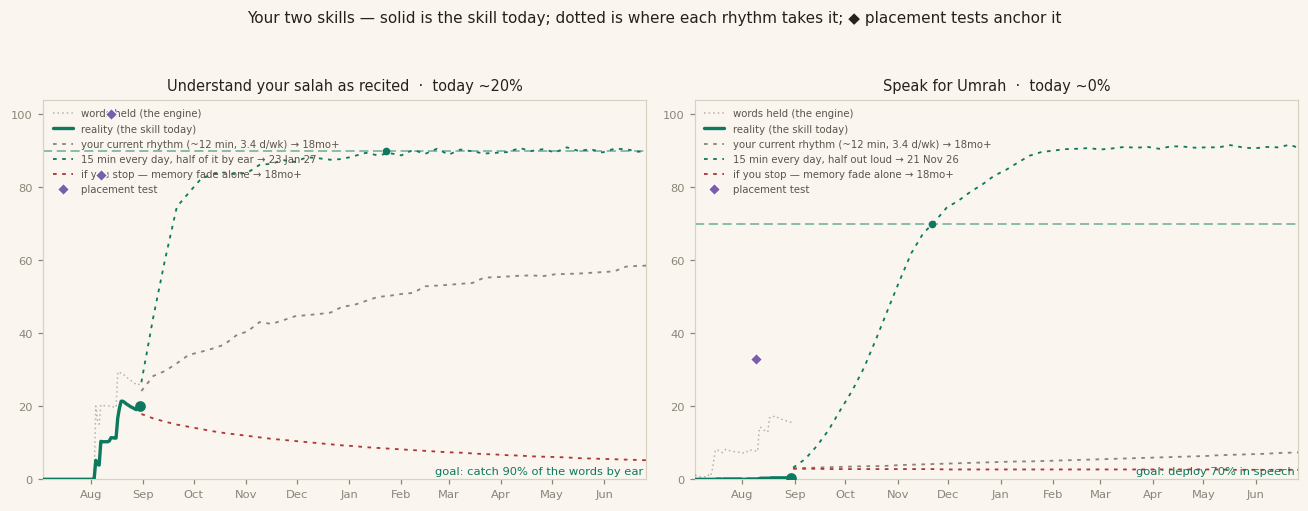
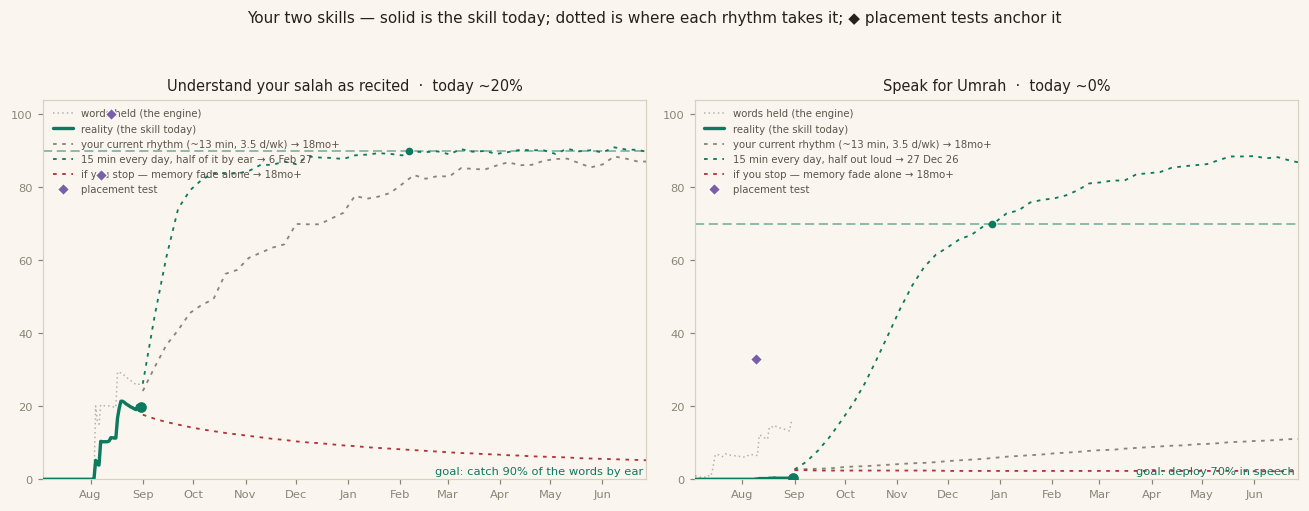
Five memory hooks for the words between him and Quran A1
He is 3 by-ear words from his first level; the missing set clusters in
Al-Fatiha verses 6-7. sirat/mustaqim/maghdub/na'budu now carry hooks
(Pul-Sirat, must-keep-em-straight, the mug taking a dub, every Abdul),
keyed for both Uthmani and plain spellings. Plus tonight's progress regen.

diff --git a/index.html b/index.html
@@ -8,8 +8,8 @@
   <link rel="icon" href="icons/icon-192.png">
   <link rel="apple-touch-icon" href="icons/icon-192.png">
   <title>Arabic — العربية</title>
-  <link rel="stylesheet" href="css/fonts.css?v=mtgd0e6c">
-  <link rel="stylesheet" href="css/style.css?v=mtgd0e6c">
+  <link rel="stylesheet" href="css/fonts.css?v=mtgjw1wu">
+  <link rel="stylesheet" href="css/style.css?v=mtgjw1wu">
   <style>
     .lvls { display: flex; gap: 10px; flex-wrap: wrap; margin-bottom: 14px; }
     .lvl { flex: 1 1 240px; cursor: default; background: var(--card); border: 1px solid var(--border); border-radius: 12px; padding: 10px 13px; text-decoration: none; color: inherit; }
@@ -109,12 +109,12 @@
   </div>
 </main>
 
-<script src="js/progress-model.js?v=mtgd0e6c"></script>
-<script src="js/curriculum.js?v=mtgd0e6c"></script>
-<script src="js/app.js?v=mtgd0e6c"></script>
-<script src="js/tracker.js?v=mtgd0e6c"></script>
-<script src="js/plan.js?v=mtgd0e6c"></script>
-<script src="js/account.js?v=mtgd0e6c"></script>
+<script src="js/progress-model.js?v=mtgjw1wu"></script>
+<script src="js/curriculum.js?v=mtgjw1wu"></script>
+<script src="js/app.js?v=mtgjw1wu"></script>
+<script src="js/tracker.js?v=mtgjw1wu"></script>
+<script src="js/plan.js?v=mtgjw1wu"></script>
+<script src="js/account.js?v=mtgjw1wu"></script>
 <script>
 renderNav("home");
 trackPage("home");

diff --git a/more.html b/more.html
@@ -8,8 +8,8 @@
   <link rel="icon" href="icons/icon-192.png">
   <link rel="apple-touch-icon" href="icons/icon-192.png">
   <title>All activities — Arabic</title>
-  <link rel="stylesheet" href="css/fonts.css?v=mtgd0e6c">
-  <link rel="stylesheet" href="css/style.css?v=mtgd0e6c">
+  <link rel="stylesheet" href="css/fonts.css?v=mtgjw1wu">
+  <link rel="stylesheet" href="css/style.css?v=mtgjw1wu">
   <style>
     .act-grid { display: grid; grid-template-columns: repeat(auto-fill, minmax(240px, 1fr)); gap: 12px; }
     .act {
@@ -118,12 +118,12 @@
   </div>
 </main>
 
-<script src="js/progress-model.js?v=mtgd0e6c"></script>
-<script src="js/curriculum.js?v=mtgd0e6c"></script>
-<script src="js/app.js?v=mtgd0e6c"></script>
-<script src="js/tracker.js?v=mtgd0e6c"></script>
-<script src="js/account.js?v=mtgd0e6c"></script>
-<script src="js/plan.js?v=mtgd0e6c"></script>
+<script src="js/progress-model.js?v=mtgjw1wu"></script>
+<script src="js/curriculum.js?v=mtgjw1wu"></script>
+<script src="js/app.js?v=mtgjw1wu"></script>
+<script src="js/tracker.js?v=mtgjw1wu"></script>
+<script src="js/account.js?v=mtgjw1wu"></script>
+<script src="js/plan.js?v=mtgjw1wu"></script>
 <script>
   renderNav("more");
   trackPage("more");

diff --git a/class.html b/class.html
@@ -8,8 +8,8 @@
   <link rel="icon" href="icons/icon-192.png">
   <link rel="apple-touch-icon" href="icons/icon-192.png">
   <title>Lessons — Arabic</title>
-  <link rel="stylesheet" href="css/fonts.css?v=mtgd0e6c">
-  <link rel="stylesheet" href="css/style.css?v=mtgd0e6c">
+  <link rel="stylesheet" href="css/fonts.css?v=mtgjw1wu">
+  <link rel="stylesheet" href="css/style.css?v=mtgjw1wu">
   <style>
     .cnt { display: flex; gap: 20px; flex-wrap: wrap; align-items: baseline; margin: 10px 0 0; }
     .cnt .n { font-size: 24px; font-weight: 700; color: var(--accent); line-height: 1; }
@@ -45,11 +45,11 @@
   <div id="out">Loading…</div>
 </main>
 
-<script src="js/progress-model.js?v=mtgd0e6c"></script>
-<script src="js/curriculum.js?v=mtgd0e6c"></script>
-<script src="js/app.js?v=mtgd0e6c"></script>
-<script src="js/tracker.js?v=mtgd0e6c"></script>
-<script src="js/plan.js?v=mtgd0e6c"></script>
+<script src="js/progress-model.js?v=mtgjw1wu"></script>
+<script src="js/curriculum.js?v=mtgjw1wu"></script>
+<script src="js/app.js?v=mtgjw1wu"></script>
+<script src="js/tracker.js?v=mtgjw1wu"></script>
+<script src="js/plan.js?v=mtgjw1wu"></script>
 <script>
 renderNav("classes");
 trackPage("classes");

diff --git a/words.html b/words.html
@@ -8,8 +8,8 @@
   <link rel="icon" href="icons/icon-192.png">
   <link rel="apple-touch-icon" href="icons/icon-192.png">
   <title>Words — Arabic</title>
-  <link rel="stylesheet" href="css/fonts.css?v=mtgd0e6c">
-  <link rel="stylesheet" href="css/style.css?v=mtgd0e6c">
+  <link rel="stylesheet" href="css/fonts.css?v=mtgjw1wu">
+  <link rel="stylesheet" href="css/style.css?v=mtgjw1wu">
   <style>
     .sp-chips { display: flex; gap: 8px; flex-wrap: wrap; margin: 6px 0 10px; }
     .sp-chip { font-size: 12.5px; border: 1px solid var(--border); border-radius: 999px;
@@ -35,11 +35,11 @@
 <body>
 <main><div id="content">Loading…</div></main>
 
-<script src="js/progress-model.js?v=mtgd0e6c"></script>
-<script src="js/curriculum.js?v=mtgd0e6c"></script>
-<script src="js/app.js?v=mtgd0e6c"></script>
-<script src="js/tracker.js?v=mtgd0e6c"></script>
-<script src="js/plan.js?v=mtgd0e6c"></script>
+<script src="js/progress-model.js?v=mtgjw1wu"></script>
+<script src="js/curriculum.js?v=mtgjw1wu"></script>
+<script src="js/app.js?v=mtgjw1wu"></script>
+<script src="js/tracker.js?v=mtgjw1wu"></script>
+<script src="js/plan.js?v=mtgjw1wu"></script>
 <script>
 renderNav("words");
 trackPage("words");

diff --git a/learn.html b/learn.html
@@ -8,8 +8,8 @@
   <link rel="icon" href="icons/icon-192.png">
   <link rel="apple-touch-icon" href="icons/icon-192.png">
   <title>Learn — Arabic</title>
-  <link rel="stylesheet" href="css/fonts.css?v=mtgd0e6c">
-  <link rel="stylesheet" href="css/style.css?v=mtgd0e6c">
+  <link rel="stylesheet" href="css/fonts.css?v=mtgjw1wu">
+  <link rel="stylesheet" href="css/style.css?v=mtgjw1wu">
   <style>
     .crumb { font-size: 13px; color: var(--muted); margin-bottom: 4px; }
     .q-ar { font-size: 30px; line-height: 1.8; text-align: center; margin: 16px 0 10px; }
@@ -33,11 +33,11 @@
 <body>
 <main><div id="app"><p>Loading…</p></div></main>
 
-<script src="js/progress-model.js?v=mtgd0e6c"></script>
-<script src="js/curriculum.js?v=mtgd0e6c"></script>
-<script src="js/app.js?v=mtgd0e6c"></script>
-<script src="js/tracker.js?v=mtgd0e6c"></script>
-<script src="js/plan.js?v=mtgd0e6c"></script>
+<script src="js/progress-model.js?v=mtgjw1wu"></script>
+<script src="js/curriculum.js?v=mtgjw1wu"></script>
+<script src="js/app.js?v=mtgjw1wu"></script>
+<script src="js/tracker.js?v=mtgjw1wu"></script>
+<script src="js/plan.js?v=mtgjw1wu"></script>
 <script>
 renderNav("learn");
 trackPage("learn");

diff --git a/map.html b/map.html
@@ -8,8 +8,8 @@
   <link rel="icon" href="icons/icon-192.png">
   <link rel="apple-touch-icon" href="icons/icon-192.png">
   <title>Progress — Arabic</title>
-  <link rel="stylesheet" href="css/fonts.css?v=mtgd0e6c">
-  <link rel="stylesheet" href="css/style.css?v=mtgd0e6c">
+  <link rel="stylesheet" href="css/fonts.css?v=mtgjw1wu">
+  <link rel="stylesheet" href="css/style.css?v=mtgjw1wu">
   <style>
     .hold { display: grid; grid-template-columns: repeat(auto-fit, minmax(150px, 1fr)); gap: 12px; }
     .hold a { display: block; text-decoration: none; color: inherit; border: 1px solid var(--border);
@@ -70,11 +70,11 @@
   </div>
 </main>
 
-<script src="js/progress-model.js?v=mtgd0e6c"></script>
-<script src="js/curriculum.js?v=mtgd0e6c"></script>
-<script src="js/app.js?v=mtgd0e6c"></script>
-<script src="js/tracker.js?v=mtgd0e6c"></script>
-<script src="js/plan.js?v=mtgd0e6c"></script>
+<script src="js/progress-model.js?v=mtgjw1wu"></script>
+<script src="js/curriculum.js?v=mtgjw1wu"></script>
+<script src="js/app.js?v=mtgjw1wu"></script>
+<script src="js/tracker.js?v=mtgjw1wu"></script>
+<script src="js/plan.js?v=mtgjw1wu"></script>
 <script>
 renderNav("map");
 trackPage("map");

diff --git a/converse.html b/converse.html
@@ -8,8 +8,8 @@
   <link rel="icon" href="icons/icon-192.png">
   <link rel="apple-touch-icon" href="icons/icon-192.png">
   <title>Conversation Partner — Arabic</title>
-  <link rel="stylesheet" href="css/fonts.css?v=mtgd0e6c">
-  <link rel="stylesheet" href="css/style.css?v=mtgd0e6c">
+  <link rel="stylesheet" href="css/fonts.css?v=mtgjw1wu">
+  <link rel="stylesheet" href="css/style.css?v=mtgjw1wu">
   <style>
     .cv-steps { display: grid; gap: 10px; margin: 8px 0 2px; }
     .cv-step { display: flex; gap: 10px; align-items: flex-start; font-size: 14.5px; }
@@ -35,11 +35,11 @@
   <div id="content">Loading…</div>
 </main>
 
-<script src="js/progress-model.js?v=mtgd0e6c"></script>
-<script src="js/curriculum.js?v=mtgd0e6c"></script>
-<script src="js/app.js?v=mtgd0e6c"></script>
-<script src="js/tracker.js?v=mtgd0e6c"></script>
-<script src="js/plan.js?v=mtgd0e6c"></script>
+<script src="js/progress-model.js?v=mtgjw1wu"></script>
+<script src="js/curriculum.js?v=mtgjw1wu"></script>
+<script src="js/app.js?v=mtgjw1wu"></script>
+<script src="js/tracker.js?v=mtgjw1wu"></script>
+<script src="js/plan.js?v=mtgjw1wu"></script>
 <script>
 renderNav("converse");
 trackPage("converse");

diff --git a/placement.html b/placement.html
@@ -8,8 +8,8 @@
   <link rel="icon" href="icons/icon-192.png">
   <link rel="apple-touch-icon" href="icons/icon-192.png">
   <title>Listening Placement — Arabic</title>
-  <link rel="stylesheet" href="css/fonts.css?v=mtgd0e6c">
-  <link rel="stylesheet" href="css/style.css?v=mtgd0e6c">
+  <link rel="stylesheet" href="css/fonts.css?v=mtgjw1wu">
+  <link rel="stylesheet" href="css/style.css?v=mtgjw1wu">
   <style>
     .pl-opt { display:block; width:100%; text-align:left; margin-top:8px; padding:10px 14px; border-radius:12px; font-size:14.5px; line-height:1.5; }
     .pl-opt.ok { background: var(--accent-soft); border-color: var(--accent); }
@@ -31,10 +31,10 @@
   </div>
 </main>
 
-<script src="js/app.js?v=mtgd0e6c"></script>
-<script src="js/tracker.js?v=mtgd0e6c"></script>
-<script src="js/plan.js?v=mtgd0e6c"></script>
-<script src="js/progress-model.js?v=mtgd0e6c"></script>
+<script src="js/app.js?v=mtgjw1wu"></script>
+<script src="js/tracker.js?v=mtgjw1wu"></script>
+<script src="js/plan.js?v=mtgjw1wu"></script>
+<script src="js/progress-model.js?v=mtgjw1wu"></script>
 <script>
 renderNav("placement");
 trackPage("placement");

diff --git a/sentences.html b/sentences.html
@@ -8,8 +8,8 @@
   <link rel="icon" href="icons/icon-192.png">
   <link rel="apple-touch-icon" href="icons/icon-192.png">
   <title>Sentence Practice — Arabic</title>
-  <link rel="stylesheet" href="css/fonts.css?v=mtgd0e6c">
-  <link rel="stylesheet" href="css/style.css?v=mtgd0e6c">
+  <link rel="stylesheet" href="css/fonts.css?v=mtgjw1wu">
+  <link rel="stylesheet" href="css/style.css?v=mtgjw1wu">
   <style>
     .sp-chips { display: flex; gap: 8px; flex-wrap: wrap; margin: 6px 0 4px; }
     .sp-chip {
@@ -69,11 +69,11 @@
   <div id="kbDock"></div>
 </main>
 
-<script src="js/progress-model.js?v=mtgd0e6c"></script>
-<script src="js/curriculum.js?v=mtgd0e6c"></script>
-<script src="js/app.js?v=mtgd0e6c"></script>
-<script src="js/tracker.js?v=mtgd0e6c"></script>
-<script src="js/plan.js?v=mtgd0e6c"></script>
+<script src="js/progress-model.js?v=mtgjw1wu"></script>
+<script src="js/curriculum.js?v=mtgjw1wu"></script>
+<script src="js/app.js?v=mtgjw1wu"></script>
+<script src="js/tracker.js?v=mtgjw1wu"></script>
+<script src="js/plan.js?v=mtgjw1wu"></script>
 <script>
 renderNav("sentences");
 trackPage("sentences");

diff --git a/vocab.html b/vocab.html
@@ -8,8 +8,8 @@
   <link rel="icon" href="icons/icon-192.png">
   <link rel="apple-touch-icon" href="icons/icon-192.png">
   <title>Vocab Lab — Arabic</title>
-  <link rel="stylesheet" href="css/fonts.css?v=mtgd0e6c">
-  <link rel="stylesheet" href="css/style.css?v=mtgd0e6c">
+  <link rel="stylesheet" href="css/fonts.css?v=mtgjw1wu">
+  <link rel="stylesheet" href="css/style.css?v=mtgjw1wu">
   <style>
     .fam-grid { display: grid; grid-template-columns: repeat(auto-fill, minmax(220px, 1fr)); gap: 14px; }
     .fam-card {
@@ -52,9 +52,9 @@
   <div id="kbDock"></div>
 </main>
 
-<script src="js/app.js?v=mtgd0e6c"></script>
-<script src="js/tracker.js?v=mtgd0e6c"></script>
-<script src="js/plan.js?v=mtgd0e6c"></script>
+<script src="js/app.js?v=mtgjw1wu"></script>
+<script src="js/tracker.js?v=mtgjw1wu"></script>
+<script src="js/plan.js?v=mtgjw1wu"></script>
 <script>
 renderNav(new URLSearchParams(location.search).get("view") === "lessons" ? "lessons" : "vocab");
 

diff --git a/test.html b/test.html
@@ -8,8 +8,8 @@
   <link rel="icon" href="icons/icon-192.png">
   <link rel="apple-touch-icon" href="icons/icon-192.png">
   <title>Milestone Test — Arabic</title>
-  <link rel="stylesheet" href="css/fonts.css?v=mtgd0e6c">
-  <link rel="stylesheet" href="css/style.css?v=mtgd0e6c">
+  <link rel="stylesheet" href="css/fonts.css?v=mtgjw1wu">
+  <link rel="stylesheet" href="css/style.css?v=mtgjw1wu">
   <style>
     .t-row td { padding: 8px 10px; border-bottom: 1px solid var(--border); }
     .t-prompt-ar { font-family: var(--font-ar); font-size: 26px; direction: rtl; text-align: right; }
@@ -25,9 +25,9 @@
   <div id="kbDock"></div>
 </main>
 
-<script src="js/app.js?v=mtgd0e6c"></script>
-<script src="js/tracker.js?v=mtgd0e6c"></script>
-<script src="js/plan.js?v=mtgd0e6c"></script>
+<script src="js/app.js?v=mtgjw1wu"></script>
+<script src="js/tracker.js?v=mtgjw1wu"></script>
+<script src="js/plan.js?v=mtgjw1wu"></script>
 <script>
 renderNav("");
 trackPage("test");

diff --git a/speaking.html b/speaking.html
@@ -8,8 +8,8 @@
   <link rel="icon" href="icons/icon-192.png">
   <link rel="apple-touch-icon" href="icons/icon-192.png">
   <title>Speaking — Arabic</title>
-  <link rel="stylesheet" href="css/fonts.css?v=mtgd0e6c">
-  <link rel="stylesheet" href="css/style.css?v=mtgd0e6c">
+  <link rel="stylesheet" href="css/fonts.css?v=mtgjw1wu">
+  <link rel="stylesheet" href="css/style.css?v=mtgjw1wu">
   <style>
     .chips { display: flex; gap: 6px; flex-wrap: wrap; margin-bottom: 12px; }
     .chips button { border-radius: 999px; font-size: 13px; padding: 5px 12px; }
@@ -67,9 +67,9 @@
   </div>
 </main>
 
-<script src="js/app.js?v=mtgd0e6c"></script>
-<script src="js/tracker.js?v=mtgd0e6c"></script>
-<script src="js/plan.js?v=mtgd0e6c"></script>
+<script src="js/app.js?v=mtgjw1wu"></script>
+<script src="js/tracker.js?v=mtgjw1wu"></script>
+<script src="js/plan.js?v=mtgjw1wu"></script>
 <script>
 renderNav("speaking");
 trackPage("speaking");
